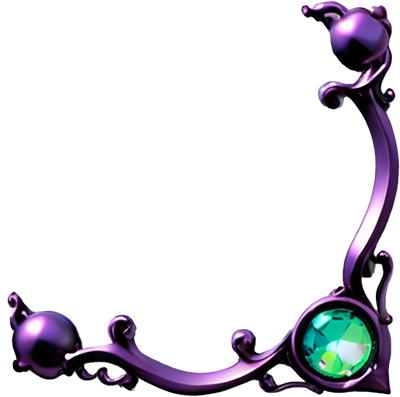
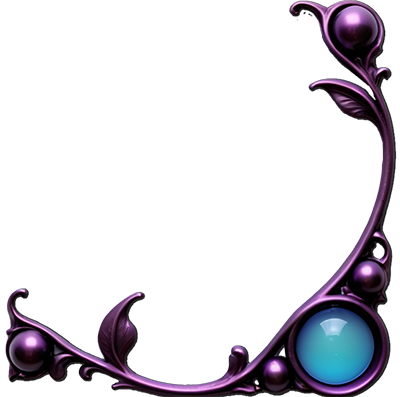
more cyan parchment corners and fixed a few other little things

Changed region(s): [[0.0, 0.0, 1.0, 1.0]]

diff --git a/app/routes/story+/components/interactionPage.tsx b/app/routes/story+/components/interactionPage.tsx
@@ -12,8 +12,8 @@ export default function InteractionPage({ story }: { story: Story }) {
   return (
     <Flex className="w-full h-full justify-center items-center">
       <VStack className="w-full h-full p-2 pb-4" gap="gap-5">
-        <VStack className="w-full h-40%">
-          <Box className={`w-full h-40% ${borderShadow}`}>
+        <VStack className="w-full h-40% flex-shrink-0">
+          <Box className={`w-full h-full ${borderShadow}`}>
             <Box className="w-full h-full bg-dv-800 shadow-shadow3D p-2 overflow-y-auto">
               <Text>{story.content}</Text>
               <Text>{story.prompt}</Text>

diff --git a/app/components/buildingBlocks/passwordInput.tsx b/app/components/buildingBlocks/passwordInput.tsx
@@ -37,10 +37,9 @@ export default function PasswordInput({
         <Box className="absolute right-[5px] top-1">
           <IconButton
             className="h-[25px] w-[25px]"
+            iconSize="text-[17px]"
             label="show/hide"
-            icon={
-              show ? <FaEyeSlash fontSize="15px" /> : <FaEye fontSize="15px" />
-            }
+            icon={show ? <FaEyeSlash /> : <FaEye />}
             onClick={handleClick}
           />
         </Box>

diff --git a/app/routes/story+/components/parchmentPage.tsx b/app/routes/story+/components/parchmentPage.tsx
@@ -8,7 +8,7 @@ import ParchmentSpacer from "./parchmentSpacer";
 export default function ParchmentPage() {
   return (
     <VStack className="w-full h-full justify-between">
-      <Flex className="h-90% w-92% bg-parchment shadow-parchmentShadow relative">
+      <Flex className="h-90% w-92% bg-parchment shadow-parchmentShadow relative pr-2">
         <ParchmentSpacer />
         <ParchmentSpacer placement="bottom" />
         <ParchmentCorner />
